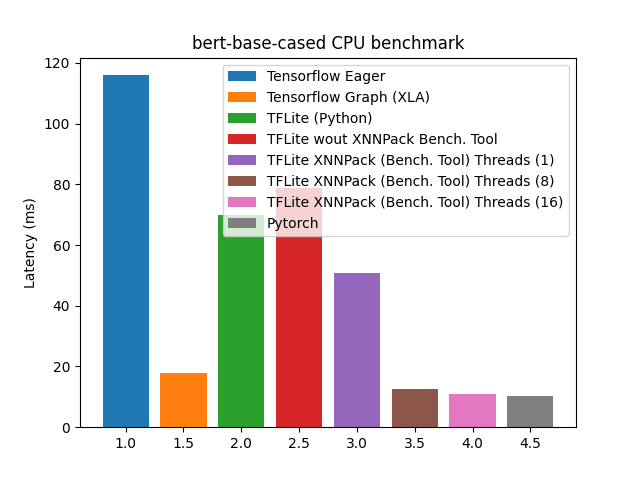
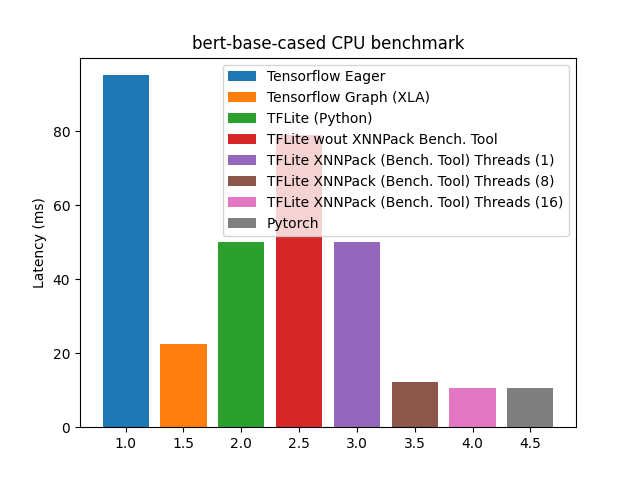
fixed readme

diff --git a/utils.py b/utils.py
@@ -49,13 +49,13 @@ def random_int_tensor(shape, max_value: int, min_value: int = 0, framework: str 
 def generate_input(
     input_name: str, framework: str = "tf", shape=[1, 8], vocab_size=100
 ):
-    min_value = 0
+    min_value = 1
     max_value = 2 if input_name != "input_ids" else vocab_size
     return random_int_tensor(shape, max_value, min_value=min_value, framework=framework)
 
 
 def model_to_signatures(model, input_shape=[1, 8], **model_kwargs):
-    input_names = ["input_ids", "attention_mask", "token_type_ids"]
+    input_names = ["input_ids", "attention_mask"]
     output_names = ["logits"]
 
     def forward(*args):
@@ -155,6 +155,6 @@ def plot_latency(model_name, latencies):
         x += 0.5
 
     plt.ylabel("Latency (ms)")
-    plt.title(f"{model_name} CPU benchmark")
+    plt.title(f"{model_name.replace('/', '-')} CPU benchmark")
     plt.legend(desc)
-    plt.savefig(f"{model_name}_benchmark.png")
+    plt.savefig(f"{model_name.replace('/', '-')}_benchmark.png")

diff --git a/main.py b/main.py
@@ -8,11 +8,18 @@ from pathlib import Path
 
 import numpy as np
 import tensorflow as tf
-from transformers import (AutoModelForSequenceClassification,
-                          TFAutoModelForSequenceClassification)
+from transformers import (
+    AutoModelForSequenceClassification,
+    TFAutoModelForSequenceClassification,
+)
 
-from utils import (convert_model_to_tflite, generate_input, measure_latency,
-                   plot_latency, run_tflite_benchmark)
+from utils import (
+    convert_model_to_tflite,
+    generate_input,
+    measure_latency,
+    plot_latency,
+    run_tflite_benchmark,
+)
 
 
 def argparser():
@@ -84,7 +91,7 @@ def main(
 ):
     latencies = OrderedDict()
 
-    input_names = ["input_ids", "attention_mask", "token_type_ids"]
+    input_names = ["input_ids", "attention_mask"]
     input_shape = [batch_size, sequence_length]
 
     model_tf = TFAutoModelForSequenceClassification.from_pretrained(model_name)

diff --git a/README.md b/README.md
@@ -12,8 +12,8 @@ Supported Features of TensorFlow Hugging Face Benchmarks Repository
 * Benchmarks for **TensorFlow Lite without XNNPACK**
 
 ## Todo
-[] Quantization benchmarks
-[] Pruning tensorflow models using INC
+* [ ] Quantization benchmarks
+* [ ] Pruning tensorflow models using INC
 
 ## Installation
 
@@ -22,39 +22,51 @@ TBA
 ## Results
 The results presented are computed on **AWS C6I.X8large** EC2 instance
 
-### Bert base
+### 1. Bert base
+-------------------------
+
 
 | Description | Latency (ms) |
 | --- | --- |
-| Tensorflow Eager  | 115.92 |
-| Tensorflow Graph (XLA) | 17.89 |
-| TFLite (Python) | 69.86 |
-| TFLite wout XNNPack (Bench. Tool) | 78.83 |
-| TFLite XNNPack (Bench. Tool) Threads (1) | 50.74|
-| TFLite XNNPack (Bench. Tool) Threads (8) | 12.59 |
-| TFLite XNNPack (Bench. Tool) Threads (16) | 10.98 |
-| Pytorch | 10.25 |
+| Tensorflow Eager  | 95.13 |
+| Tensorflow Graph (XLA) | 22.55 |
+| TFLite (Python) | 50.18 |
+| TFLite wout XNNPack (Bench. Tool) | 78.94 |
+| TFLite XNNPack (Bench. Tool) Threads (1) | 50.18|
+| TFLite XNNPack (Bench. Tool) Threads (8) | 12.32 |
+| TFLite XNNPack (Bench. Tool) Threads (16) | 10.47 |
+| Pytorch | 10.63 |
 
-![Models Latency Plot](plots/bert-base-cased_benchmark.png)
+<p>
+  <img src="plots/bert-base-cased_benchmark.png" width=400>
+</p>
 
-### Bert large
+
+### 2. Bert large
+-------------------------
 
 | Description | Latency (ms) |
 | --- | --- |
-| Tensorflow Eager  | 234.37 |
-| Tensorflow Graph (XLA) | 45.63 |
-| TFLite (Python) | 303.57 |
-| TFLite wout XNNPack (Bench. Tool) | 312.27 |
-| TFLite XNNPack (Bench. Tool) Threads (1) | 191.22|
-| TFLite XNNPack (Bench. Tool) Threads (8) | 39.53 |
-| TFLite XNNPack (Bench. Tool) Threads (16) | 31.04 |
-| Pytorch | 27.35 |
+| Tensorflow Eager  | 193.38 |
+| Tensorflow Graph (XLA) | 53.64 |
+| TFLite (Python) | 241.51 |
+| TFLite wout XNNPack (Bench. Tool) | 314.21 |
+| TFLite XNNPack (Bench. Tool) Threads (1) | 187.17|
+| TFLite XNNPack (Bench. Tool) Threads (8) | 40.05 |
+| TFLite XNNPack (Bench. Tool) Threads (16) | 31.11 |
+| Pytorch | 28.65 |
 
-![Models Latency Plot](plots/bert-large-cased_benchmark.png)
+
+<p align="center">
+  <img src="plots/bert-large-cased_benchmark.png" width=500>
+</p>
+
+-------------------------
+
 
 ## Tensorflow Model Optimization Limitations
 The section mentions the limitations of the features mentioned in [https://www.tensorflow.org/model_optimization](https://www.tensorflow.org/model_optimization) as well as other shortcomings.
 
 * [**Pruning**](https://www.tensorflow.org/model_optimization/guide/pruning) - The pruning currently doesn't support subclassed tensorflow models.
 For subclass models, since keras doesn't support cloning, it still don't have a model-level API. Alternative is to re-construct the model and wrapper the layers to prune with the pruning API. See [tensorflow/model-optimization/issues/155](https://github.com/tensorflow/model-optimization/issues/155) for more information.
-* [**TFLite Python Support (Num threads)**] - Mulithreaded execution have significant performance gains in some scenarios. However, setting `num_threads` in Python interpreter does not work. See [tensorflow/tensorflow/issues/52076](https://github.com/tensorflow/tensorflow/issues/52076) for more information.
+* **TFLite Python Support (Num threads)** - Mulithreaded execution have significant performance gains in some scenarios. However, setting `num_threads` in Python interpreter does not work. See [tensorflow/tensorflow/issues/52076](https://github.com/tensorflow/tensorflow/issues/52076) for more information.
